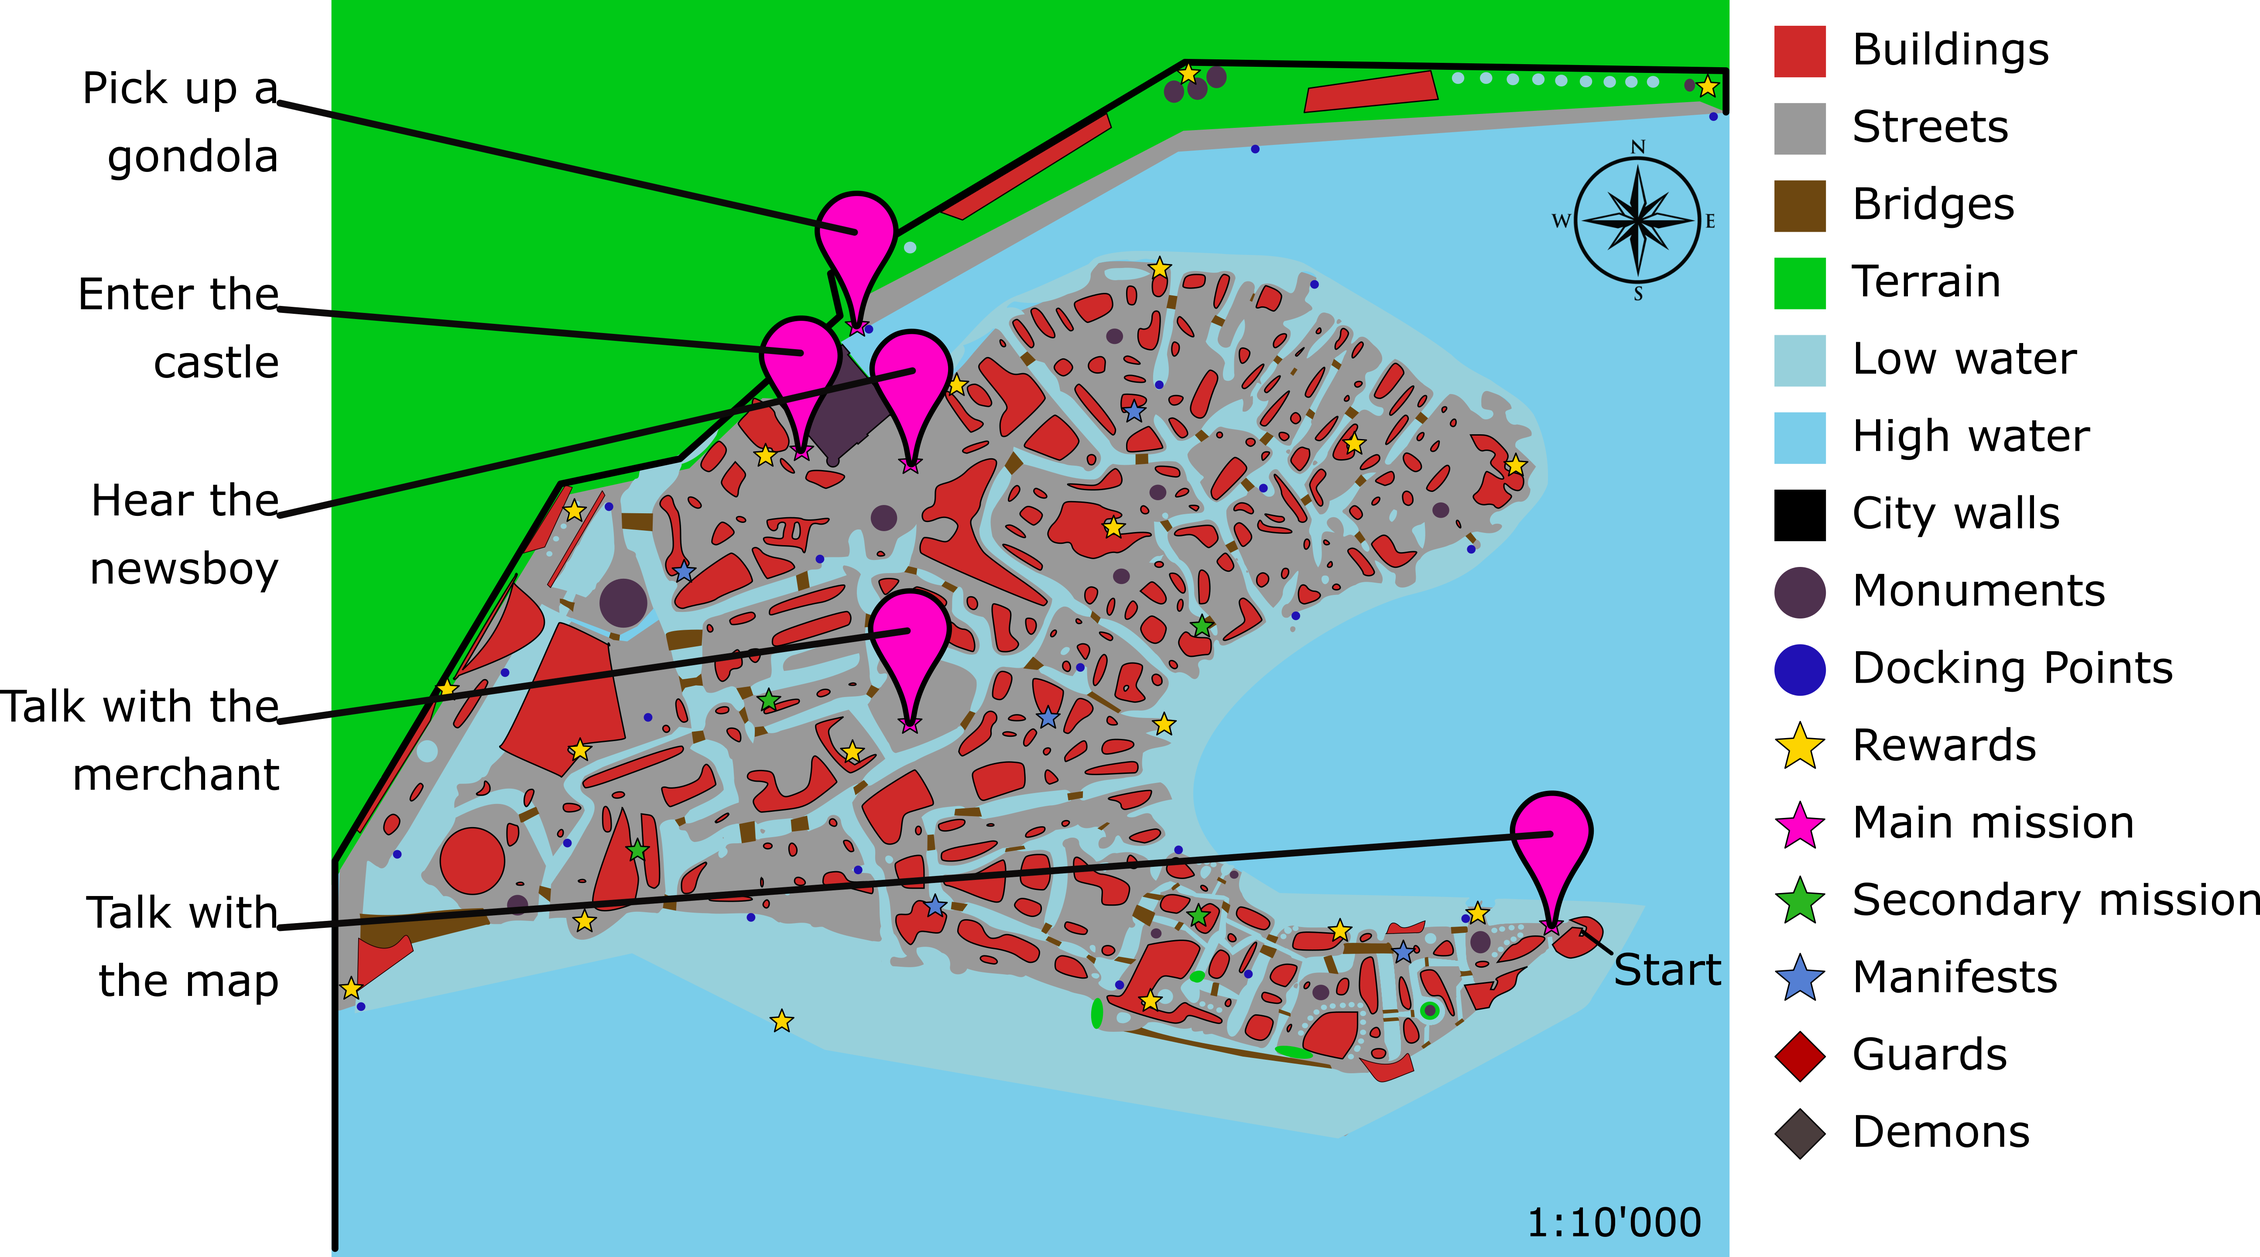
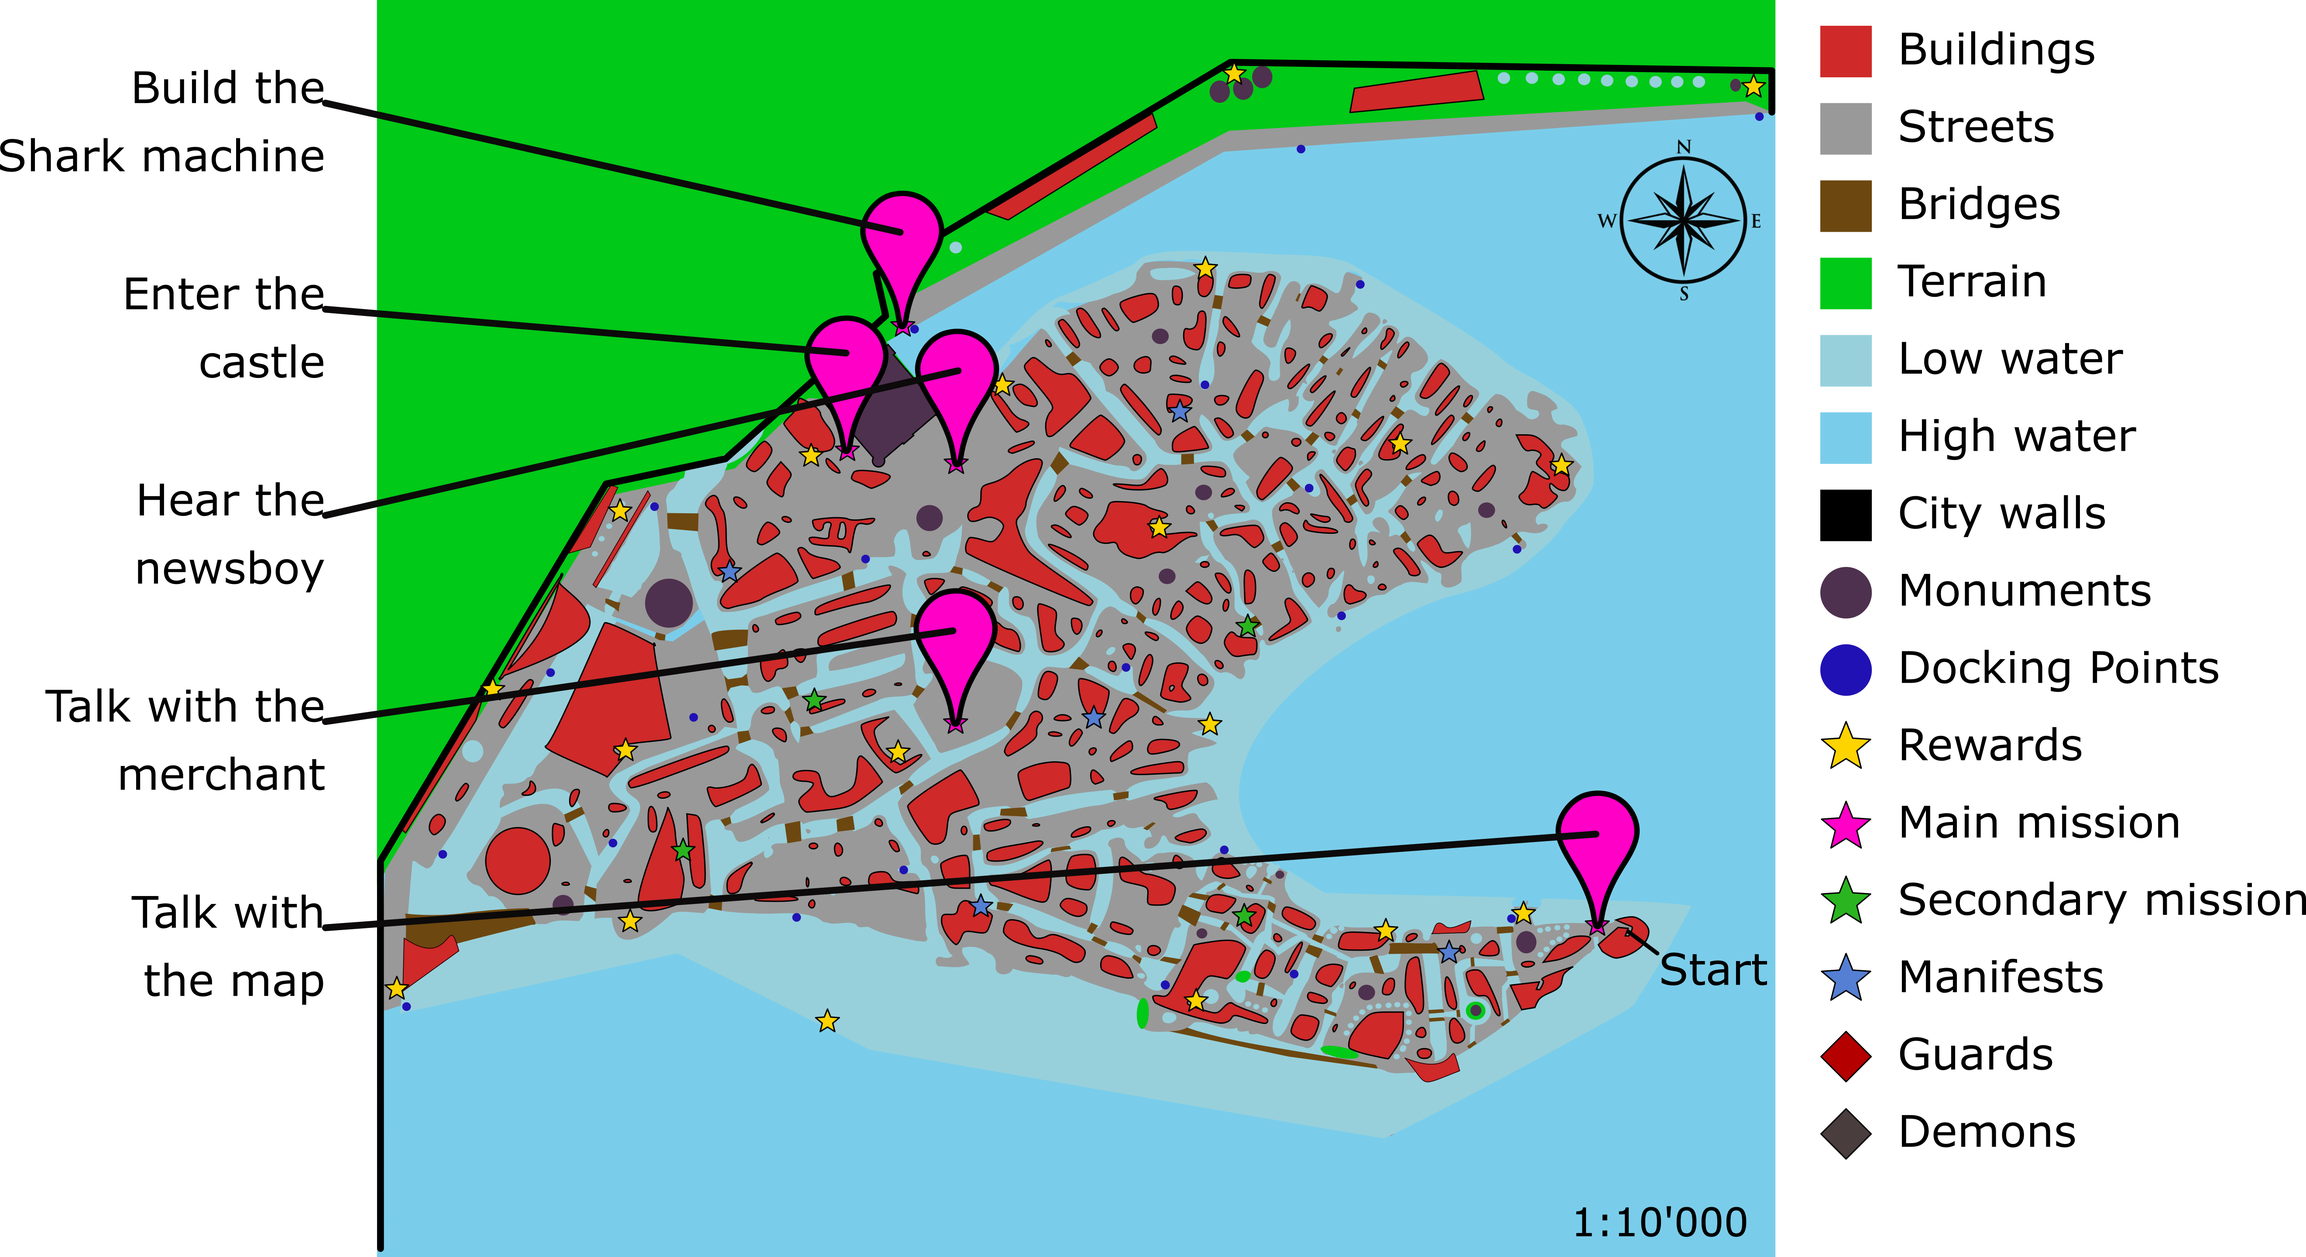
Aggiunte macchine. Cambiata gondola in Shark machine.

Changed region(s): [[0.0, 0.0, 0.9635, 1.0], [0.3108, 0.7812, 0.4041, 0.8438], [0.4041, 0.8438, 0.4662, 0.875]]

diff --git a/Documents/LevelDesignDocument/GameSkills/skills.tex b/Documents/LevelDesignDocument/GameSkills/skills.tex
@@ -1,14 +1,32 @@
 \section{Skills}
-The previous table shows how the game skills are distributed throughout the game. You can find some detail in this section. These are the skill that the player can use while impersonating Sophie:
+During the game the player can use many skills while impersonating Sophie.
+
+The following table shows how the skills are distributed throughout the game.
+
+\begin{longtable}[H]{|p{1.7cm}|p{1.7cm}|p{1.7cm}|p{1.7cm}|p{1.7cm}|p{1.7cm}|p{1.7cm}|p{1.7cm}|}
+  \hline
+\cellcolor[HTML]{656565}{\color[HTML]{FFFFFF} \textbf{Skill}} & \cellcolor[HTML]{C0C0C0}{\color[HTML]{330001} \textbf{First steps}} & \cellcolor[HTML]{C0C0C0}{\color[HTML]{330001} \textbf{Where is Howl?}} & \cellcolor[HTML]{C0C0C0}{\color[HTML]{330001} \textbf{In enemy territory}} & \cellcolor[HTML]{C0C0C0}{\color[HTML]{330001} \textbf{Nasty surprise(s)}} & \cellcolor[HTML]{C0C0C0}{\color[HTML]{330001} \textbf{The djiin of the desert}} & \cellcolor[HTML]{C0C0C0}{\color[HTML]{330001} \textbf{The spirts realm}} & \cellcolor[HTML]{C0C0C0}{\color[HTML]{330001} \textbf{Fire and secrets}} \\ \hline
+\textbf{Magic Door} & X & X & X & X &  & X &  \\ \hline
+\textbf{Sewing} & X & O & O & O & O & O & O \\ \hline
+\textbf{Talk to objects} & X & X & X &  & O & X & X \\ \hline
+\textbf{Magic lantern} &  &  & X & X &  & X & X \\ \hline
+\textbf{Multi-option dialogue} &  & X & X & X & X & X &  \\ \hline
+\textbf{Lantern trasformation} &  &  & X &  & X & X &  \\ \hline
+\textbf{Flying} &  &  &  &  & X &  &X  \\ \hline
+\textbf{Sailing} &  &  & X &  &  & X &  \\ \hline
+\textbf{Metamor-phosis} &  &  &  &  &  &  & X \\ \hline
+\end{longtable}
+
+\textbf{X}: the skill is required \\
+\textbf{O}: the skill may be used, but it is not required
+
 \begin{itemize}
 \item \textbf{Magic Door}: Sophie uses the flying castle's door to rapidly move through the levels.
+\item \textbf{Sewing}: Sophie can sew magic hats with the magic needle in the flying castle. Each hat requires some crafting materials.
 \item \textbf{Talk to objects}: Sophie uses this skill to have dialogues with objects. Just some objects can interact with her. They give her information, tips, rewards or other.
 \item \textbf{Magic lantern}: Sophie uses the magic lantern to control Calcifer during a fight.
-\item \textbf{Lie}: during a dialogue with someone Sophie chooses to lie to him.
-\item \textbf{Persuasion}: during a dialogue with someone Sophie chooses to try to persuade him.
-\item \textbf{Corruption}: during a dialogue with someone Sophie chooses to try to corrupt him.
+\item \textbf{Multi-option dialogue}: during a dialogue Sophie has some options to choose from.
 \item \textbf{Lantern transformation}: during the game Calcifer can use scraps, objects or other to transform temporarily his lantern in some useful machine. %Sophie can control this skills. Just in some part of the game she has to use.
-\item \textbf{Sewing}: Sophie can sew magic hats with the magic needle in the flying castle. Each hat requires some crafting materials.
 \item \textbf{Flying}: Sophie pilots the flying castle.
 \item \textbf{Sailing}: Sophie use this skill to sail a boat.
 \item \textbf{Metamorphosis}: Sophie can allow Calcifer to turn into a powerful demon. This skill is used only in the last level where the player will control Calcifer to defeat Mizar.

diff --git a/Documents/LevelDesignDocument/GameSkills/machines.tex b/Documents/LevelDesignDocument/GameSkills/machines.tex
@@ -1,0 +1,50 @@
+\section{Machines}
+During the game Calcifer can use some debris to temporarily transform his lantern in some useful machine.
+
+In the game there are many piles of debris, but in order to build a machine Calcifer needs the proper components.
+
+In order to unlock a new machine, the player has to solve a puzzle. Once unlocked, a machine can be used anytime the player finds a pile of debris with the proper components.
+
+\begin{longtable}[H]{|p{1.7cm}|p{1.7cm}|p{1.7cm}|p{1.7cm}|p{1.7cm}|p{1.7cm}|p{1.7cm}|p{1.7cm}|}
+  \hline
+\cellcolor[HTML]{656565}{\color[HTML]{FFFFFF} \textbf{Machine}} & \cellcolor[HTML]{C0C0C0}{\color[HTML]{330001} \textbf{First steps}} & \cellcolor[HTML]{C0C0C0}{\color[HTML]{330001} \textbf{Where is Howl?}} & \cellcolor[HTML]{C0C0C0}{\color[HTML]{330001} \textbf{In enemy territory}} & \cellcolor[HTML]{C0C0C0}{\color[HTML]{330001} \textbf{Nasty surprise(s)}} & \cellcolor[HTML]{C0C0C0}{\color[HTML]{330001} \textbf{The djiin of the desert}} & \cellcolor[HTML]{C0C0C0}{\color[HTML]{330001} \textbf{The spirts realm}} & \cellcolor[HTML]{C0C0C0}{\color[HTML]{330001} \textbf{Fire and secrets}} \\ \hline
+\textbf{Horse} &  & O &  & X &  &  &  \\ \hline
+\textbf{Spider} &  &  & O & X &  &  &  \\ \hline
+\textbf{Shark} &  &  & X &  &  &  & X \\ \hline
+\textbf{Wheel} &  &  &  &  & O &  & X \\ \hline
+\end{longtable}
+
+\textbf{X}: the machine is required \\
+\textbf{O}: the machine may be used, but it is not required
+
+\begin{itemize}
+	\item \textbf{Horse}: a horse-like machine that allows Sophie to move faster on solid ground.
+	\item \textbf{Spider}: a spider-like machine that allows Sophie to clime some buildings.
+	\item \textbf{Shark}: a shark-like machine that allows Sophie to sail on water.
+	\item \textbf{Wheel}: a wheel-like machine that allows Sophie to move faster on sand.
+\end{itemize}
+
+\subsection{Machine building puzzle}
+\begin{figure}[H]
+  \centering
+  \includegraphics[width=\textwidth]{Images/Puzzles/machine}
+  \caption{A machine building puzzle}
+\end{figure}
+
+In order to unlock a new machine the player has to reorder the pieces of a mosaic representing the machine itself.
+
+The mosaic has 4 rows and 6 columns. The player can switch any couple of two pieces.
+
+The number of tiles in the puzzle is different for each machine to gradually increase the difficulty for the player:
+\begin{itemize}
+	\item \textbf{First machine}: 3 rows and 4 columns (12 tiles).
+	\item \textbf{Second machine}: 3 rows and 5 columns (15 tiles).
+	\item \textbf{Third machine}: 3 rows and 6 columns (18 tiles).
+	\item \textbf{Last machine}: 4 rows and 6 columns (24 tiles).
+\end{itemize}
+
+\subsubsection*{Hints}
+If the player gets stuck for some time, Sophie will tell some lines to help the player, at the same time two pieces will be highlighted in order to suggest to switch them.
+
+\textbf{Sophie}: I think that piece should go there.
+

diff --git a/Documents/LevelDesignDocument/GameSkills/skillsChart.tex b/Documents/LevelDesignDocument/GameSkills/skillsChart.tex
@@ -1,25 +1,17 @@
 \section{Skills Chart}
-\begin{table}[H]
-  \scalebox{0.7}{
-    \begin{tabular}{|
-        >{\columncolor[HTML]{C0C0C0}}p{3.0cm} |p{2.5cm}|p{2.5cm}|p{2.5cm}|p{2.5cm}|p{2.5cm}|p{2.5cm}|p{2.5cm}|}
-%\begin{longtable}[H]{|p{1.7cm}|p{1.7cm}|p{1.7cm}|p{1.7cm}|p{1.7cm}|p{1.7cm}|p{1.7cm}|p{1.7cm}|}
+\begin{longtable}[H]{|p{1.7cm}|p{1.7cm}|p{1.7cm}|p{1.7cm}|p{1.7cm}|p{1.7cm}|p{1.7cm}|p{1.7cm}|}
   \hline
-\multicolumn{1}{|l|}{\cellcolor[HTML]{656565}{\color[HTML]{FFFFFF} \textbf{Skills\textbackslash{}Levels}}} & \cellcolor[HTML]{C0C0C0}{\color[HTML]{330001} \textbf{First steps}} & \cellcolor[HTML]{C0C0C0}{\color[HTML]{330001} \textbf{Where is Howl?}} & \cellcolor[HTML]{C0C0C0}{\color[HTML]{330001} \textbf{In enemy territory}} & \cellcolor[HTML]{C0C0C0}{\color[HTML]{330001} \textbf{Nasty surprise(s)}} & \cellcolor[HTML]{C0C0C0}{\color[HTML]{330001} \textbf{The djiin of the desert}} & \cellcolor[HTML]{C0C0C0}{\color[HTML]{330001} \textbf{The spirts realm}} & \cellcolor[HTML]{C0C0C0}{\color[HTML]{330001} \textbf{Fire and secrets}} \\ \hline
+\cellcolor[HTML]{656565}{\color[HTML]{FFFFFF} \textbf{Skill}} & \cellcolor[HTML]{C0C0C0}{\color[HTML]{330001} \textbf{First steps}} & \cellcolor[HTML]{C0C0C0}{\color[HTML]{330001} \textbf{Where is Howl?}} & \cellcolor[HTML]{C0C0C0}{\color[HTML]{330001} \textbf{In enemy territory}} & \cellcolor[HTML]{C0C0C0}{\color[HTML]{330001} \textbf{Nasty surprise(s)}} & \cellcolor[HTML]{C0C0C0}{\color[HTML]{330001} \textbf{The djiin of the desert}} & \cellcolor[HTML]{C0C0C0}{\color[HTML]{330001} \textbf{The spirts realm}} & \cellcolor[HTML]{C0C0C0}{\color[HTML]{330001} \textbf{Fire and secrets}} \\ \hline
 \textbf{Magic Door} & X & X & X & X &  & X &  \\ \hline
-\textbf{Talk to objects} & X & O & X &  & O & X & X \\ \hline
+\textbf{Sewing} & X & O & O & O & O & O & O \\ \hline
+\textbf{Talk to objects} & X & X & X &  & O & X & X \\ \hline
 \textbf{Magic lantern} &  &  & X & X &  & X & X \\ \hline
-\textbf{Lie} &  & X & X & X & X & X &  \\ \hline
-\textbf{Persuasion} &  & X &  & X & X & X &  \\ \hline
-\textbf{Corruption} &  &  & X &  & X & X &  \\ \hline
+\textbf{Multi-option dialogue} &  & X & X & X & X & X &  \\ \hline
 \textbf{Lantern trasformation} &  &  & X &  & X & X &  \\ \hline
-\textbf{Sewing} & X & O & O & X & O & O & X \\ \hline
 \textbf{Flying} &  &  &  &  & X &  &X  \\ \hline
 \textbf{Sailing} &  &  & X &  &  & X &  \\ \hline
-\textbf{Metamorphosis} &  &  &  &  &  &  & X \\ \hline
-%\end{longtable}
-\end{tabular}}
-\end{table}
+\textbf{Metamor-phosis} &  &  &  &  &  &  & X \\ \hline
+\end{longtable}
 
 \textbf{X}: the skill is required
 

diff --git a/Documents/LevelDesignDocument/LevelStory/story.tex b/Documents/LevelDesignDocument/LevelStory/story.tex
@@ -598,32 +598,34 @@ Sophie, Calcifer and Justin go through the secret passage and they exit in the m
 This way. Hurry! 
 \end{dialogue}
 
-They exit the castle and reach a docking point where there are some gondolas.
+They exit the castle and reach a docking point. There are no boats, only a pile of olde debris.
 
-\begin{dialogue}{Justin}
-Let's use a gondola.
+\begin{dialogue}[worried]{Justin}
+Damn, where are all the boats?!
+\end{dialogue}
+
+\begin{dialogue}{Sophie}
+Calcifer, use those debris to build a boat.
 \end{dialogue}
 
 \begin{dialogue}[scared]{Calcifer}
-WHAT! You wanna use that scary thing?!
+WHAT?! I'll never do it!
 \end{dialogue}
-
-They jump on a gondola.
 
 \begin{dialogue}{Sophie}
-Justin, do you know how to drive it?
+Please, Calcifer. We need your help.
 \end{dialogue}
 
-Justin picks up an oar.
-
-\begin{dialogue}{Justin}
-Ehm... not really.
+\begin{dialogue}{Calcifer}
+Mmh... Fine, I'll do it. Just give me a little help.
 \end{dialogue}
 
-Two guards get close to them.
+Calcifer uses the debris to build the Shark machine.
+
+Two guards move toward to Sophie and her friends.
 
 \begin{dialogue}{Guard 1}
-Hey what are you doing?
+Hey, what are you doing?
 \end{dialogue}
 
 \begin{dialogue}[screaming]{Guard 2}
@@ -631,24 +633,24 @@ What? The prince is free! Pull the alarm! The prisoner is running!
 \end{dialogue}
 
 \begin{dialogue}[worried]{Calcifer}
-Sophie, use your magic!
+Come on! Jump on!
 \end{dialogue}
+
+Sophie and Justin gets on the Shark machine.
 
 \begin{dialogue}[in a hurry]{Sophie}
-Please, move, gondola. We need to go.
+Go, Calcifer! Go!
 \end{dialogue}
 
-\begin{dialogue}{Gondola}
-Hello, Sophie. Tell me where you want to go and I will take you there. I’m yours to command.
-\end{dialogue}
+Calcifer starts moving.
 
-\begin{dialogue}[in a hurry]{Sophie}
-That way! Go that way!
+\begin{dialogue}[worried]{Calcifer}
+Ok! Ok! Just stay still! We'll turn around!
 \end{dialogue}
 
 \end{screenplay}
 \vspace{1em}
 
-The gondola starts moving and Sophie guides it through the city, careful to avoid the guards and the demons.
+Sophie guides the Shark machine through the city, careful to avoid the guards and the demons.
 
 They dock near the dead end where is placed the secret passage for the flying castle. They go there and pass through the door.

diff --git a/Documents/LevelDesignDocument/Enemies/enemiesChart.tex b/Documents/LevelDesignDocument/Enemies/enemiesChart.tex
@@ -1,11 +1,7 @@
 \section{Enemies Chart}
-\begin{table}[H]
-  \scalebox{0.7}{
-    \begin{tabular}{|
-        >{\columncolor[HTML]{C0C0C0}}p{3.0cm} |p{2.5cm}|p{2.5cm}|p{2.5cm}|p{2.5cm}|p{2.5cm}|p{2.5cm}|p{2.5cm}|}
-%\begin{longtable}[H]{|p{1.7cm}|p{1.7cm}|p{1.7cm}|p{1.7cm}|p{1.7cm}|p{1.7cm}|p{1.7cm}|p{1.7cm}|}
+\begin{longtable}[H]{|p{1.7cm}|p{1.7cm}|p{1.7cm}|p{1.7cm}|p{1.7cm}|p{1.7cm}|p{1.7cm}|p{1.7cm}|}
   \hline
-\multicolumn{1}{|l|}{\cellcolor[HTML]{656565}{\color[HTML]{FFFFFF} \textbf{Enemies\textbackslash{}Levels}}} & \cellcolor[HTML]{C0C0C0}{\color[HTML]{330001} \textbf{First steps}} & \cellcolor[HTML]{C0C0C0}{\color[HTML]{330001} \textbf{Where is Howl?}} & \cellcolor[HTML]{C0C0C0}{\color[HTML]{330001} \textbf{In enemy territory}} & \cellcolor[HTML]{C0C0C0}{\color[HTML]{330001} \textbf{Nasty surprise(s)}} & \cellcolor[HTML]{C0C0C0}{\color[HTML]{330001} \textbf{The djiin of the desert}} & \cellcolor[HTML]{C0C0C0}{\color[HTML]{330001} \textbf{The spirts realm}} & \cellcolor[HTML]{C0C0C0}{\color[HTML]{330001} \textbf{Fire and secrets}} \\ \hline
+\cellcolor[HTML]{656565}{\color[HTML]{FFFFFF} \textbf{Enemies}} & \cellcolor[HTML]{C0C0C0}{\color[HTML]{330001} \textbf{First steps}} & \cellcolor[HTML]{C0C0C0}{\color[HTML]{330001} \textbf{Where is Howl?}} & \cellcolor[HTML]{C0C0C0}{\color[HTML]{330001} \textbf{In enemy territory}} & \cellcolor[HTML]{C0C0C0}{\color[HTML]{330001} \textbf{Nasty surprise(s)}} & \cellcolor[HTML]{C0C0C0}{\color[HTML]{330001} \textbf{The djiin of the desert}} & \cellcolor[HTML]{C0C0C0}{\color[HTML]{330001} \textbf{The spirts realm}} & \cellcolor[HTML]{C0C0C0}{\color[HTML]{330001} \textbf{Fire and secrets}} \\ \hline
 \textbf{Bully}         &   & X &   &   &   &   &   \\ \hline
 \textbf{Recruit}       &   & X &   & X &   &   &   \\ \hline
 \textbf{Guard}         &   &   & X &   &   &   & X \\ \hline
@@ -18,7 +14,6 @@
 \textbf{Bear ghost}       &   &   &   &   &   & X &   \\ \hline
 \textbf{Personal guard of the queen}       &   &   &   &   &   &   & X \\ \hline
 \textbf{Magma demon}       &   &   &   &   &   &   & X \\ \hline
-%\end{longtable}
-\end{tabular}}
-\end{table}
+\textbf{Mizar}       &   &   &   &   &   &   & X \\ \hline
+\end{longtable}
 \hspace{0pt} \\ % to ensure clearpage before section

diff --git a/Documents/LevelDesignDocument/Puzzles/castleOfDynamia.tex b/Documents/LevelDesignDocument/Puzzles/castleOfDynamia.tex
@@ -7,21 +7,23 @@
   \caption{Puzzles locations in the Castle of Dynamia}
 \end{figure}
 
-\subsection{1. Build a machine}
+\subsection{1. Build the Spider machine}
 
-\begin{figure}[H]
-  \centering
-  \includegraphics[width=\textwidth]{Images/Puzzles/castleOfDynamia_1}
-  \caption{Puzzle 1 in the Castle of Dynamia}
-\end{figure}
+%\begin{figure}[H]
+%  \centering
+%  \includegraphics[width=\textwidth]{Images/Puzzles/castleOfDynamia_1}
+%  \caption{Puzzle 1 in the Castle of Dynamia}
+%\end{figure}
 
-In order to enter in the courtyard the player can use some debris to build a machine for Calcifer that allows him to climb the wall without being detected.
+In order to enter in the courtyard, the player can use some debris to build the Spider machine for Calcifer that allows him to climb the wall without being detected.
 
 %The player has different parts and he/she has to understand how to combine them. He/She has to break some part to obtain new components. Some parts are not required to build the machine.
 
-The player has to reorder the pieces of a mosaic representing the machine itself.
+%The player has to reorder the pieces of a mosaic representing the machine itself.
+%
+%The mosaic has 4 rows and 6 columns. The player can switch any couple of two pieces.
 
-The mosaic has 4 rows and 6 columns. The player can switch any couple of two pieces.
+See the section \textit{Machine building puzzle}.
 
 \subsubsection*{Hints}
 If the player gets stuck for some time, Sophie will tell some lines to help the player, at the same time two pieces will be highlighted in order to suggest to switch them.
@@ -180,3 +182,9 @@ So the possible solutions are:
 If the player gets stuck for some time, the torch will tell some lines to help the player.
 
 \textbf{Torch}: Maths and proportions: young people today don't really study them.
+
+\subsection{5. Build the Shartk machine}
+
+In order to run away from the Castle, the player has to build the Shark machine for Calcifer that allows him to move on the water.
+
+See the section \textit{Machine building puzzle}.

diff --git a/Documents/LevelDesignDocument/Audio/voices.tex b/Documents/LevelDesignDocument/Audio/voices.tex
@@ -28,7 +28,6 @@ The secondary characters appear only in this level.
 	\item Torch 1
 	\item Torch 2
 	\item Torch 3
-	\item Gondola
 	\item Doctor
 	\item Traitor guard
 	\item Tall woman

diff --git a/Documents/LevelDesignDocument/GameSkills/index.tex b/Documents/LevelDesignDocument/GameSkills/index.tex
@@ -1,5 +1,5 @@
 \chapter{Game Skills}
 
-\input{GameSkills/skillsChart}
+%\input{GameSkills/skillsChart}
 \input{GameSkills/skills}
-
+\input{GameSkills/machines}
